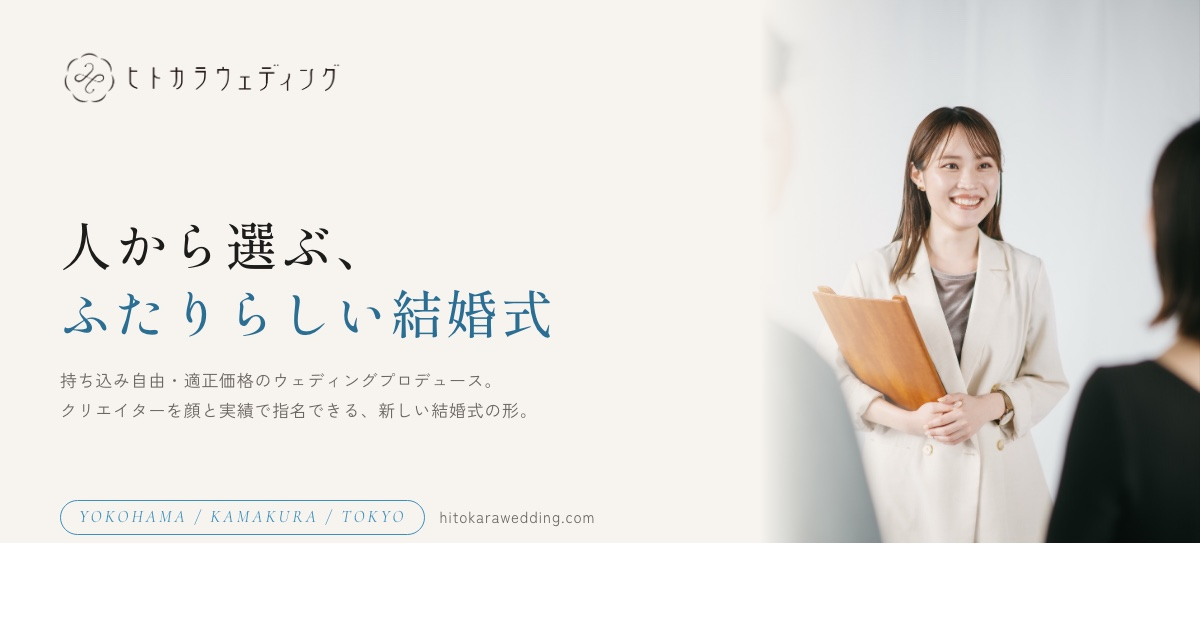
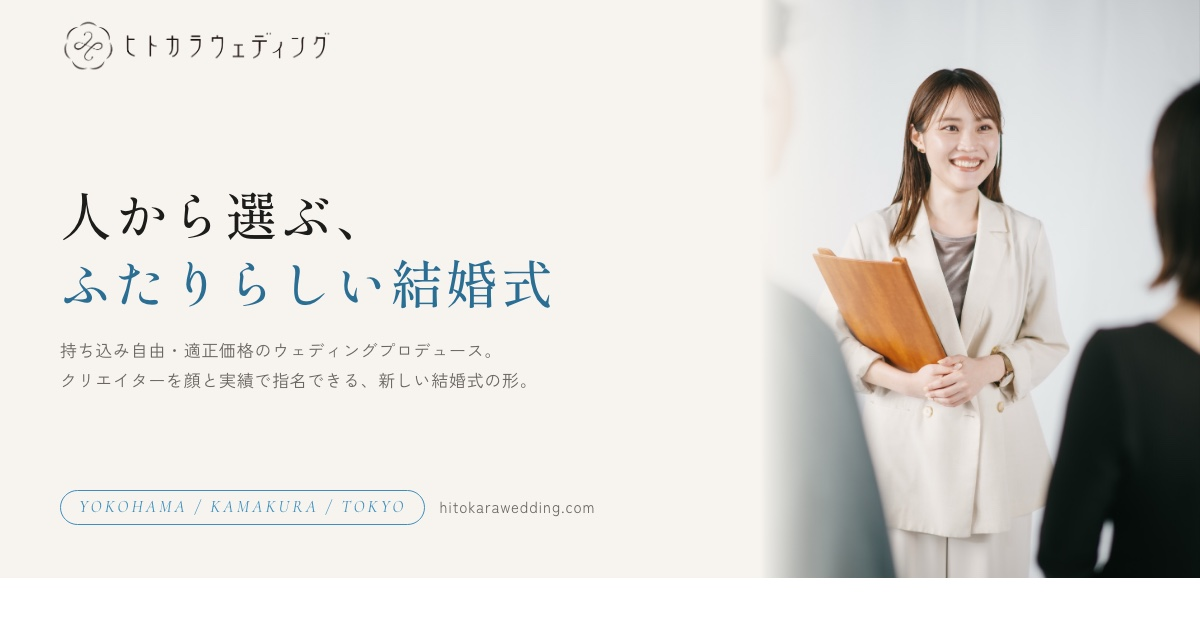
OG修正

diff --git a/tools/og-image/template.html b/tools/og-image/template.html
@@ -40,31 +40,47 @@
     .right {
       position: absolute;
       top: 0;
-      bottom: 0;
       right: 0;
       width: 440px;
+      height: 630px;
       background:
-        linear-gradient(270deg, rgba(0,0,0,0) 0%, rgba(247,244,239,0) 62%, var(--bg) 100%),
-        url("https://hitokarawedding.com/hero-portrait-1.jpg") center 18% / cover no-repeat,
+        linear-gradient(270deg, rgba(247,244,239,0) 0%, rgba(247,244,239,0) 70%, var(--bg) 100%),
+        url("logo.png"), /* dummy never shown; keep as placeholder */
         linear-gradient(155deg, #8ab8d0 0%, #4a7898 55%, #2a5878 100%);
+      overflow: hidden;
+    }
+    .right::before {
+      content: "";
+      position: absolute;
+      inset: 0;
+      background: url("hero-portrait-1.jpg") center 28% / cover no-repeat;
+    }
+    .right::after {
+      /* Left-edge fade to cream */
+      content: "";
+      position: absolute;
+      inset: 0;
+      background: linear-gradient(270deg, rgba(247,244,239,0) 0%, rgba(247,244,239,0) 72%, var(--bg) 100%);
     }
 
     /* Brand logo (top-left) */
     .brand-logo {
       position: absolute;
-      top: 48px;
+      top: 52px;
       left: 60px;
-      height: 58px;
+      height: 56px;
       width: auto;
       display: block;
+      z-index: 3;
     }
 
-    /* Headline block */
+    /* Headline block (vertically centered) */
     .headline-wrap {
       position: absolute;
       left: 60px;
       right: 480px;
-      top: 210px;
+      top: 215px;
+      z-index: 3;
     }
     .headline {
       font-family: var(--mincho);
@@ -86,11 +102,11 @@
       margin-top: 20px;
     }
 
-    /* Bottom footer */
+    /* Bottom footer (balanced with logo: ~52px from edge) */
     .footer {
       position: absolute;
       left: 60px;
-      top: 500px;
+      top: 525px;
       display: flex;
       align-items: center;
       gap: 14px;
